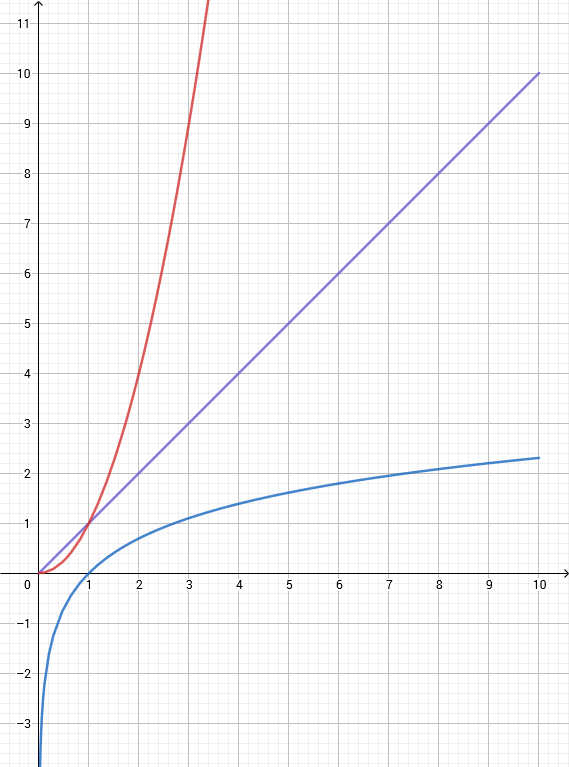
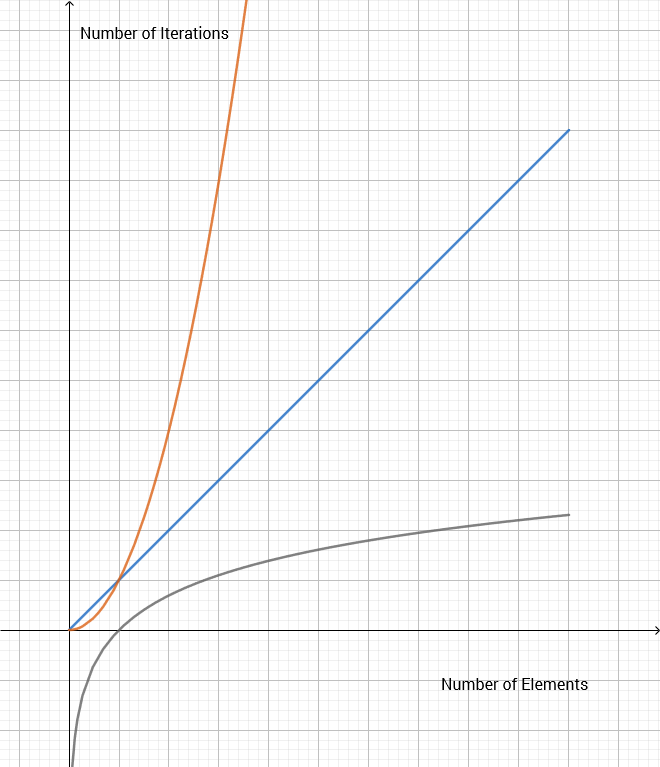
Updates algorithm-efficiency-big-o.md
Auto commit by GitBook Editor

diff --git a/algorithm-efficiency-big-o.md b/algorithm-efficiency-big-o.md
@@ -7,25 +7,25 @@ plugins:
 
 ## Example:  Selection Sort - Efficiency
 
-The selection sort involves scanning the list from the beginning to find the position of the **minimum value**, then placing the minimum value at the **beginning of the list**, by **swapping the two values**. This is **repeated **by **starting at the next position** in the list. The minimum value is found in the remainder of the list and the two values are swapped. Repeat until you have passed through the entire list.
+The selection sort involves scanning the list from the beginning to find the position of the **minimum value**, then placing the minimum value at the **beginning of the list**, by **swapping the two values**. This is **repeated **by **starting at the next position** in the list. The minimum value is found in the remainder of the list and the two values are swapped. The process is repeated until you have passed through the entire list.
 
 So, the first time through the **list of length 7**, you must compare/check **6 values**
 
 | 0 | 1 | 2 | 3 | 4 | 5 | 6 |
 | :---: | :---: | :---: | :---: | :---: | :---: | :---: |
-| 76 | 10 | 5 | -17 | 34 | 25 | 2 |
+| 76 | **10** | **5** | **-17** | **34** | **25** | **2** |
 
 The second time **5 values** are checked/compared,
 
 | 0 | 1 | 2 | 3 | 4 | 5 | 6 |
 | :---: | :---: | :---: | :---: | :---: | :---: | :---: |
-| -17 | 10 | 5 | 76 | 34 | 25 | 2 |
+| -17 | 10 | **5** | **76** | **34** | **25** | **2** |
 
 Then, **4 values** are checked, and so on ...
 
 | 0 | 1 | 2 | 3 | 4 | 5 | 6 |
 | :---: | :---: | :---: | :---: | :---: | :---: | :---: |
-| -17 | 2 | 5 | 76 | 34 | 25 | 10 |
+| -17 | 2 | 5 | **76** | **34** | **25** | **10** |
 
 The total number of comparison equals 6 + 5 + 4 + 3 + 2 + 1 = **21 comparisons**. For a general list containing n items. The number of comparisons is
 
@@ -43,13 +43,17 @@ $$
 $$
 
 
-For large n, the $$n^2$$ term dominates this expression, so the \(worst-case\) efficiency of the selection sort is described by** O\(**$$n^2$$**\). **Similarly, both the **bubble sort and the insertion sort** are considered** O\(**$$n^2$$**\) **algorithms or **quadratic**.
+for large n, the $$n^2$$ term dominates this expression, so the \(worst-case\) efficiency of the selection sort is described by** O\(**$$n^2$$**\). **Similarly, both the **bubble sort and the insertion sort** are considered** O\(**$$n^2$$**\) **algorithms or **quadratic**.
 
 ## Other Algorithms - Efficiency
 
 The** linear search** on a list of **length n** must in the **worst-case** search through **n items**.  As a result, its efficiency is described by **O\(n\)** or** linear**.  In comparison, the **binary search** has an efficiency described by** O\(**$$logn$$**\)**, because it takes a number of steps based on $$log(n)$$ on a list of length n.  For example, in a **sorted list of length 100**, it takes a maximum number of steps equal to $$log_2 (100) = 6.64 ~= 7$$.
 
-The efficiency of an algorithm can be visualized by looking at graphs of the functions $$y=x$$, $$y=x^2$$, and $$y=log(n)$$.  In general, a _linear** **_**O\(n\)** algorithm is** 'slower'** than a _quadratic_ algorithm** O\(**$$n^2$$**\)** which is** 'slower'** than a _logarithmic_ O\($$logn$$\) algorithm for large values of n.
+The efficiency of an algorithm can be visualized by looking at graphs of the functions $$y=x$$, $$y=x^2$$, and $$y=log(n)$$.  In general, a _quadratic_** O\(**$$n^2$$**\)**_ _algorithm is slower than _ a  linear** **_**O\(n\)** algorithm which is** 'slower'** than a _logarithmic_** O\(**$$logn$$**\) **algorithm **for large values of n**.  Notice how the **number of iterations \(the y-axis\)** increases as the **number of elements \(the x-axis\)** increases.
 
-![](/assets/algorithmEfficiency.png)
+|  | ![](/assets/algorithmEfficiency.png) |  |
+| :--- | :--- | :--- |
+
+
+
 
